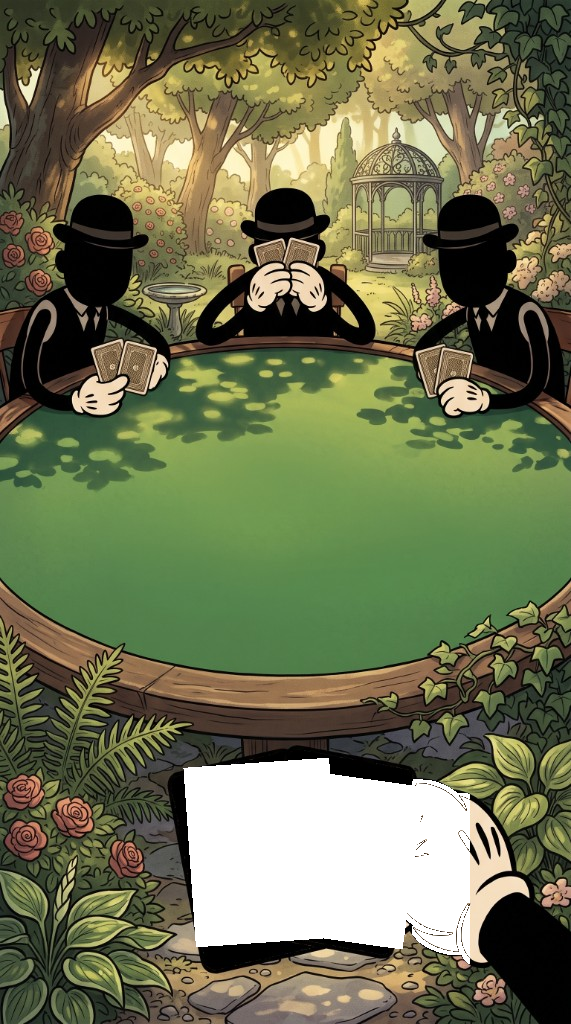
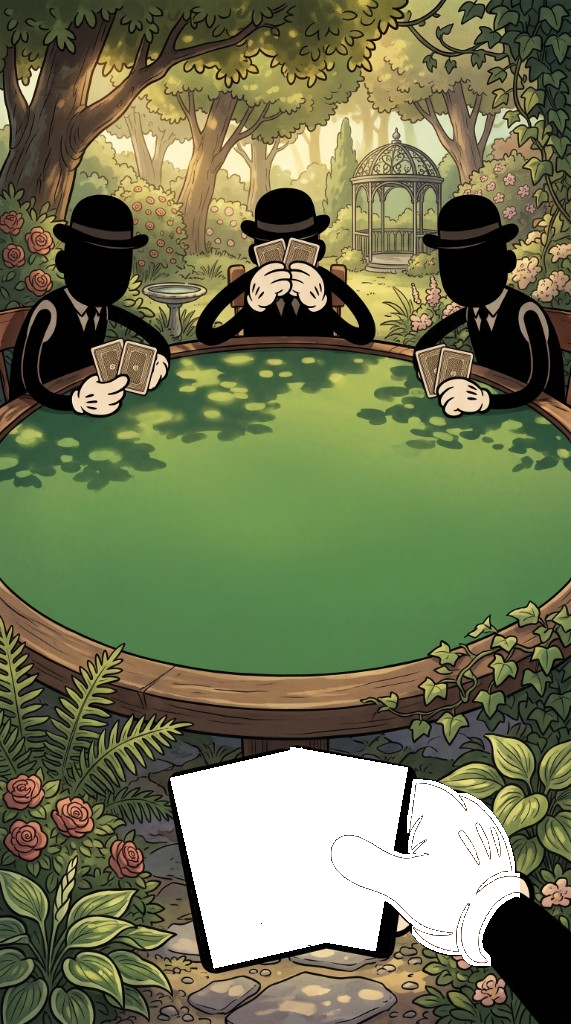
Fit Benny's Garden hole cards inside the painted outlines, with the right card on top.

diff --git a/my-expo-app/src/features/templates/hot-seats/sceneLayout.ts b/my-expo-app/src/features/templates/hot-seats/sceneLayout.ts
@@ -31,14 +31,14 @@ const POT_CENTER_Y = 0.5;
 
 /**
  * Garden hero holes on the 571×1024 painting.
- * Each face fills its black shape and leaves a 2px ink border.
- * Index 0, the left card, is underneath: center (245, 862), 113×193, −12° anti-clockwise.
- * Index 1, the right card, is on top and wider: center (339, 851), 125×188, +11° clockwise.
+ * Measured from the colored reference, cut on the black silhouette.
+ * Index 0, the left card, is underneath: center (258, 858), 136×196, −13° anti-clockwise.
+ * Index 1, the right card, is on top: center (333, 849), 120×187, +10° clockwise.
  * The outlined thumb is painted after both faces.
  */
 const GARDEN_HOLE_SLOTS = [
-  { cx: 245 / 571, cy: 862 / 1024, width: 113 / 571, height: 193 / 1024, rotation: -12 },
-  { cx: 339 / 571, cy: 851 / 1024, width: 125 / 571, height: 188 / 1024, rotation: 11 },
+  { cx: 258 / 571, cy: 858 / 1024, width: 136 / 571, height: 196 / 1024, rotation: -13 },
+  { cx: 333 / 571, cy: 849 / 1024, width: 120 / 571, height: 187 / 1024, rotation: 10 },
 ] as const;
 
 /** Stacks sit on the felt in front of each painted body. */
